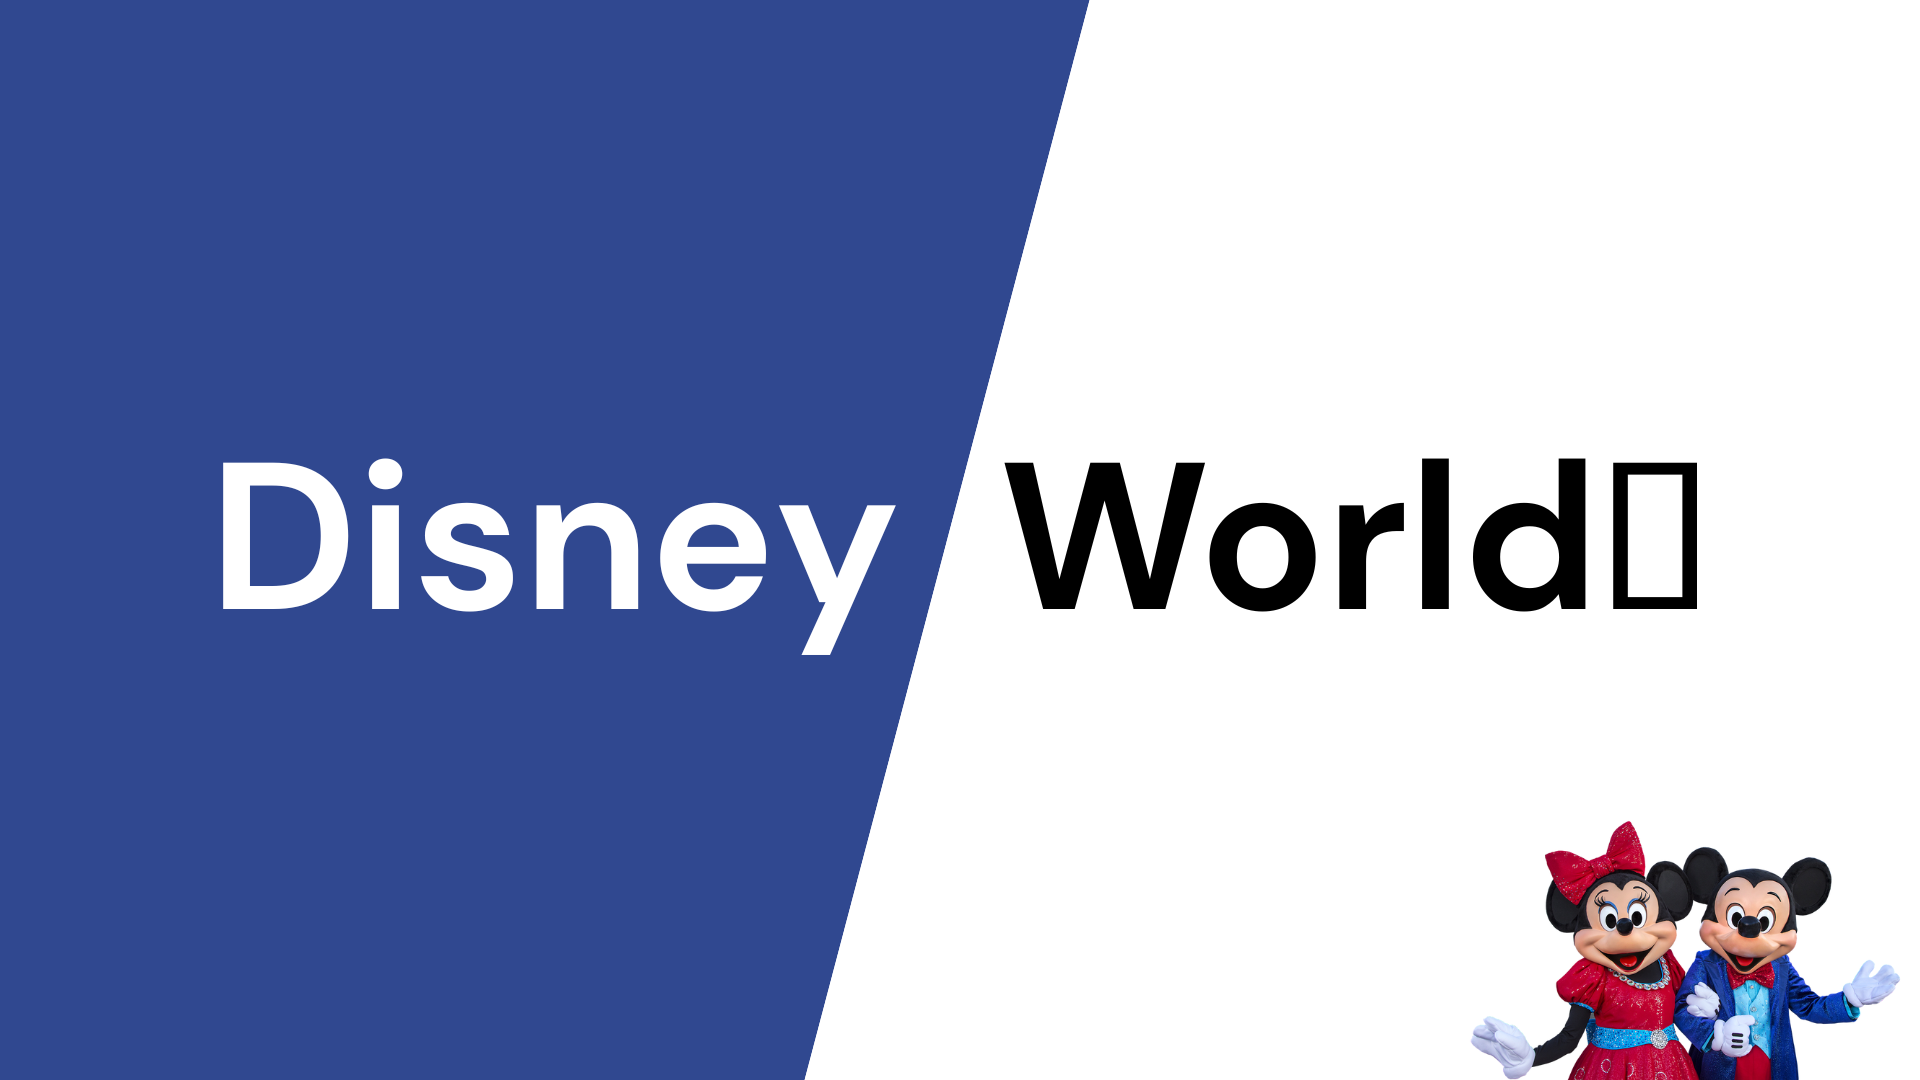
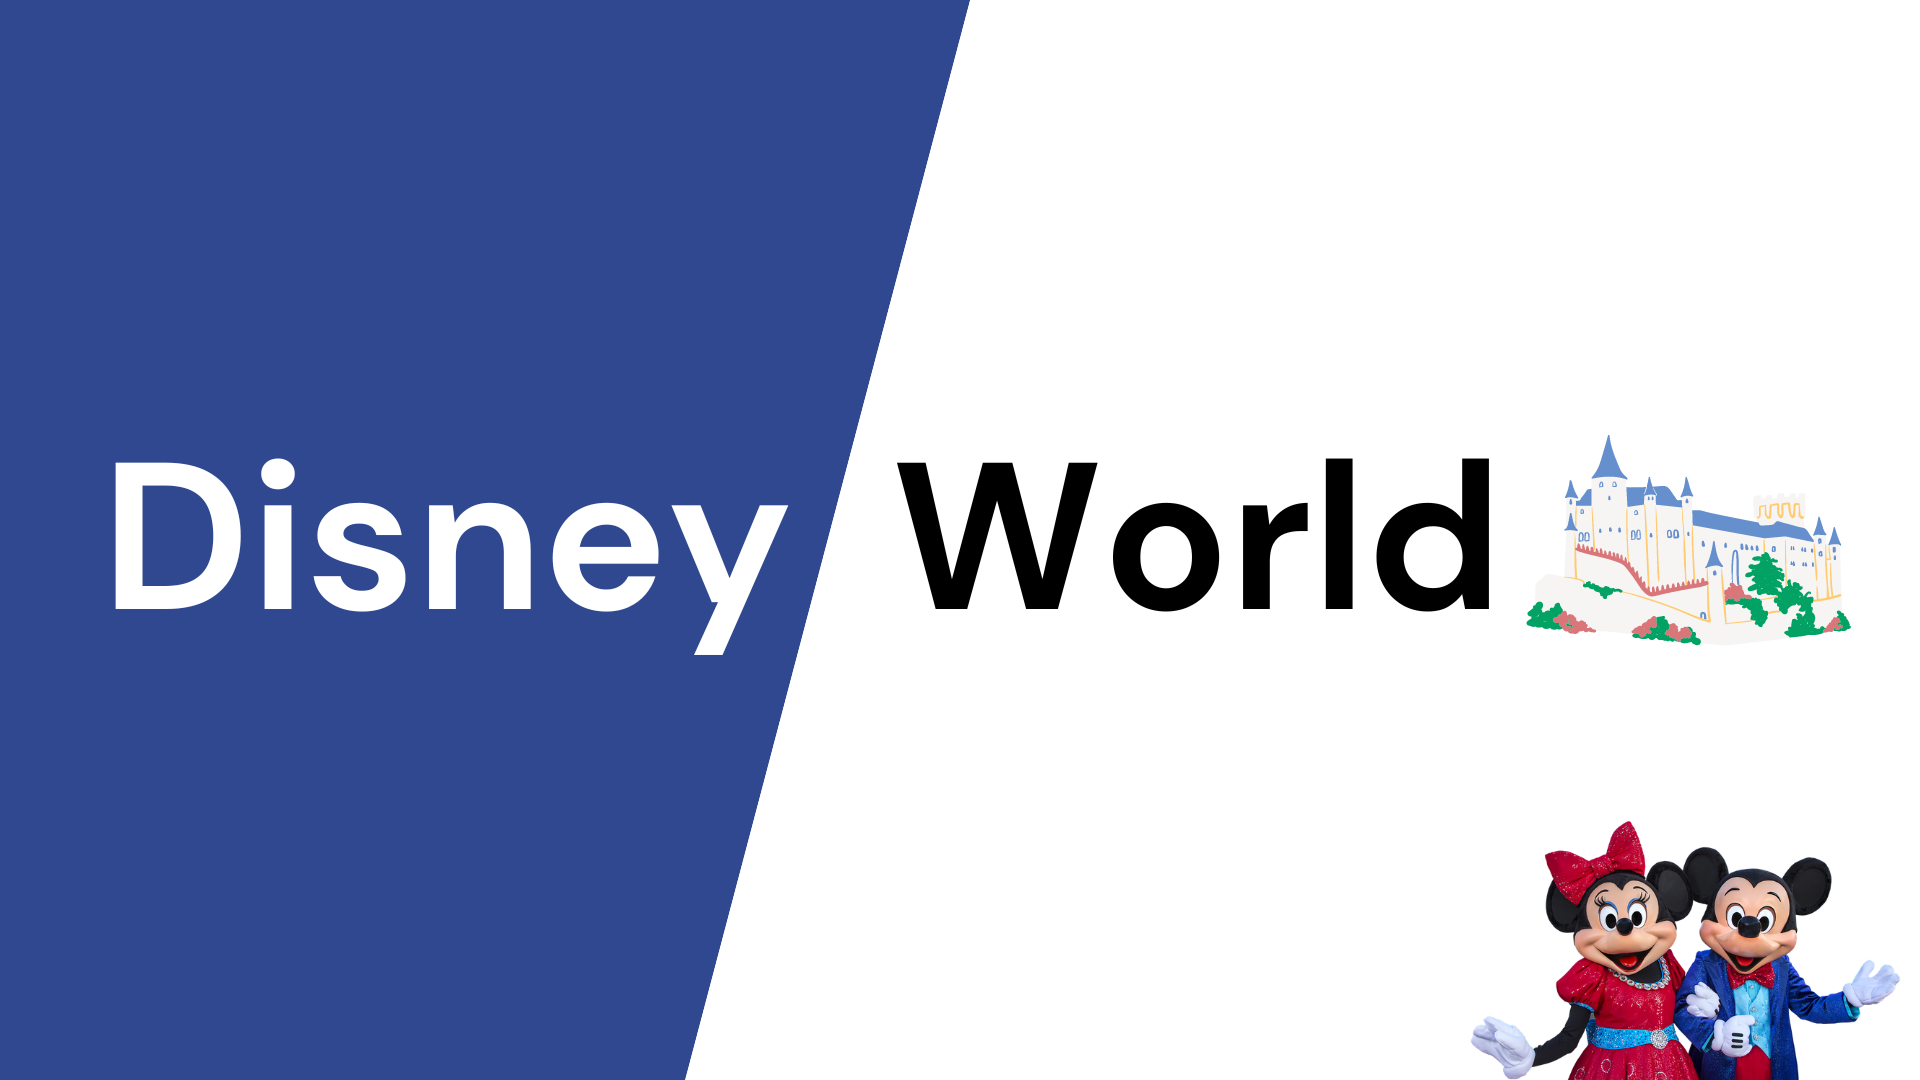
refactor : 포스터 컴포넌트 파일 스플리팅, 메인 화면 구조 수정/chore: 메인포스터 수정
- 하나로 되어 있던 포스터 컴포넌트를 tsx, styled.ts, index.ts로 스플리팅함.
- 메인포스터 깨진 아이콘 있어 수정함.
- 메인/디테일 화면 최상단으로 포스터 컴포넌트 빼고, 그 아래에 메인컨텐츠 배치함.

Changed region(s): [[0.0625, 0.0, 0.9688, 1.0]]

diff --git a/src/components/main/Poster/Poster.styled.ts b/src/components/main/Poster/Poster.styled.ts
@@ -1,11 +1,35 @@
 import styled from "styled-components";
-import mainPoster from "../../utils/images/mainPoster.png";
-import { Link } from "react-router-dom";
 
 const PosterWrapper = styled.div`
   width: 100%;
 
   position: relative;
+
+  .poster__descriptions {
+    width: 500px;
+    height: 250px;
+
+    position: absolute;
+
+    top: 100px;
+    left: 100px;
+
+    .poster__descriptions__title {
+      line-height: 60px;
+      margin-bottom: 20px;
+
+      font-size: 2.5rem;
+      font-family: DisneyBold, sans-serif, Arial;
+
+      color: white;
+    }
+
+    .poster__descriptions__description {
+      line-height: 30px;
+      font-size: 1.2em;
+      font-family: DisneyRegular, sans-serif, Arial;
+    }
+  }
 
   .poster__sellecter {
     width: 450px;
@@ -24,6 +48,7 @@ const PosterWrapper = styled.div`
       cursor: pointer;
       > .poster__sellecter--label {
         background-color: #304890;
+        color: white;
       }
     }
 
@@ -39,22 +64,11 @@ const PosterWrapper = styled.div`
 
       background-color: rgba(255, 255, 255, 0);
       border-radius: 20px;
-      color: white;
+      color: rgba(255, 255, 255, 0);
       font-family: DisneyRegular, sans-serif, Arial;
       font-size: 18px;
     }
   }
 `;
 
-export default function Poster() {
-  return (
-    <PosterWrapper>
-      <div className="poster__sellecter">
-        <div className="poster__sellecter--label">
-          <Link to="/characters/:mickey%20mouse">Mickey Mouse</Link>
-        </div>
-      </div>
-      <img src={mainPoster} />
-    </PosterWrapper>
-  );
-}
+export default PosterWrapper;

diff --git a/src/components/main/Poster/Poster.tsx b/src/components/main/Poster/Poster.tsx
@@ -1,0 +1,27 @@
+import mainPoster from "../../../utils/images/mainPoster.png";
+
+import { Link } from "react-router-dom";
+import PosterWrapper from "./Poster.styled";
+
+export default function Poster() {
+  return (
+    <PosterWrapper>
+      <div className="poster__descriptions">
+        <h3 className="poster__descriptions__title">디즈니 월드 캐릭터 소개</h3>
+        <p className="poster__descriptions__description">
+          💡 여러분은 디즈니하면 무슨 캐릭터가 떠오르나요?
+          <br />
+          🎅 미키 마우스, 피노키오, 엘사, 올라프 등 대중들에게
+          <br />
+          🕵♀ 많은 사랑을 받았던 캐릭터들을 하나씩 살펴보겠습니다.
+        </p>
+      </div>
+      <div className="poster__sellecter">
+        <div className="poster__sellecter--label">
+          <Link to="/characters/mickey%20mouse">Mickey Mouse</Link>
+        </div>
+      </div>
+      <img src={mainPoster} style={{ width: "100%" }} />
+    </PosterWrapper>
+  );
+}

diff --git a/src/pages/Main.tsx b/src/pages/Main.tsx
@@ -1,16 +1,18 @@
 import Container from "../components/common/Container";
-import Poster from "../components/main/Poster";
+import Poster from "../components/main/Poster/Poster";
 
 export default function Main() {
   return (
-    <Container>
+    <>
       <Poster />
-      <div>MAIN</div>
-      <div>
-        <h1>MAIN TITLE</h1>
-        <p>CONTENTS</p>
-        <span>hahaha</span>
-      </div>
-    </Container>
+      <Container>
+        <div>MAIN</div>
+        <div>
+          <h1>MAIN TITLE</h1>
+          <p>CONTENTS</p>
+          <span>hahaha</span>
+        </div>
+      </Container>
+    </>
   );
 }

diff --git a/src/pages/CharacterDetail.tsx b/src/pages/CharacterDetail.tsx
@@ -1,14 +1,18 @@
 import Container from "../components/common/Container";
+import Poster from "../components/main/Poster/Poster";
 
 export default function CharacterDetail() {
   return (
-    <Container>
-      <h1>DETAIL</h1>
-      <div>
-        <h1>DETAIL TITLE</h1>
-        <p>DETAIL CONTENTS</p>
-        <span>HOHOHO</span>
-      </div>
-    </Container>
+    <>
+      <Poster />
+      <Container>
+        <h1>DETAIL</h1>
+        <div>
+          <h1>DETAIL TITLE</h1>
+          <p>DETAIL CONTENTS</p>
+          <span>HOHOHO</span>
+        </div>
+      </Container>
+    </>
   );
 }

diff --git a/src/components/main/Poster/index.ts b/src/components/main/Poster/index.ts
@@ -1,0 +1,1 @@
+import { default as Poster } from "./Poster";
